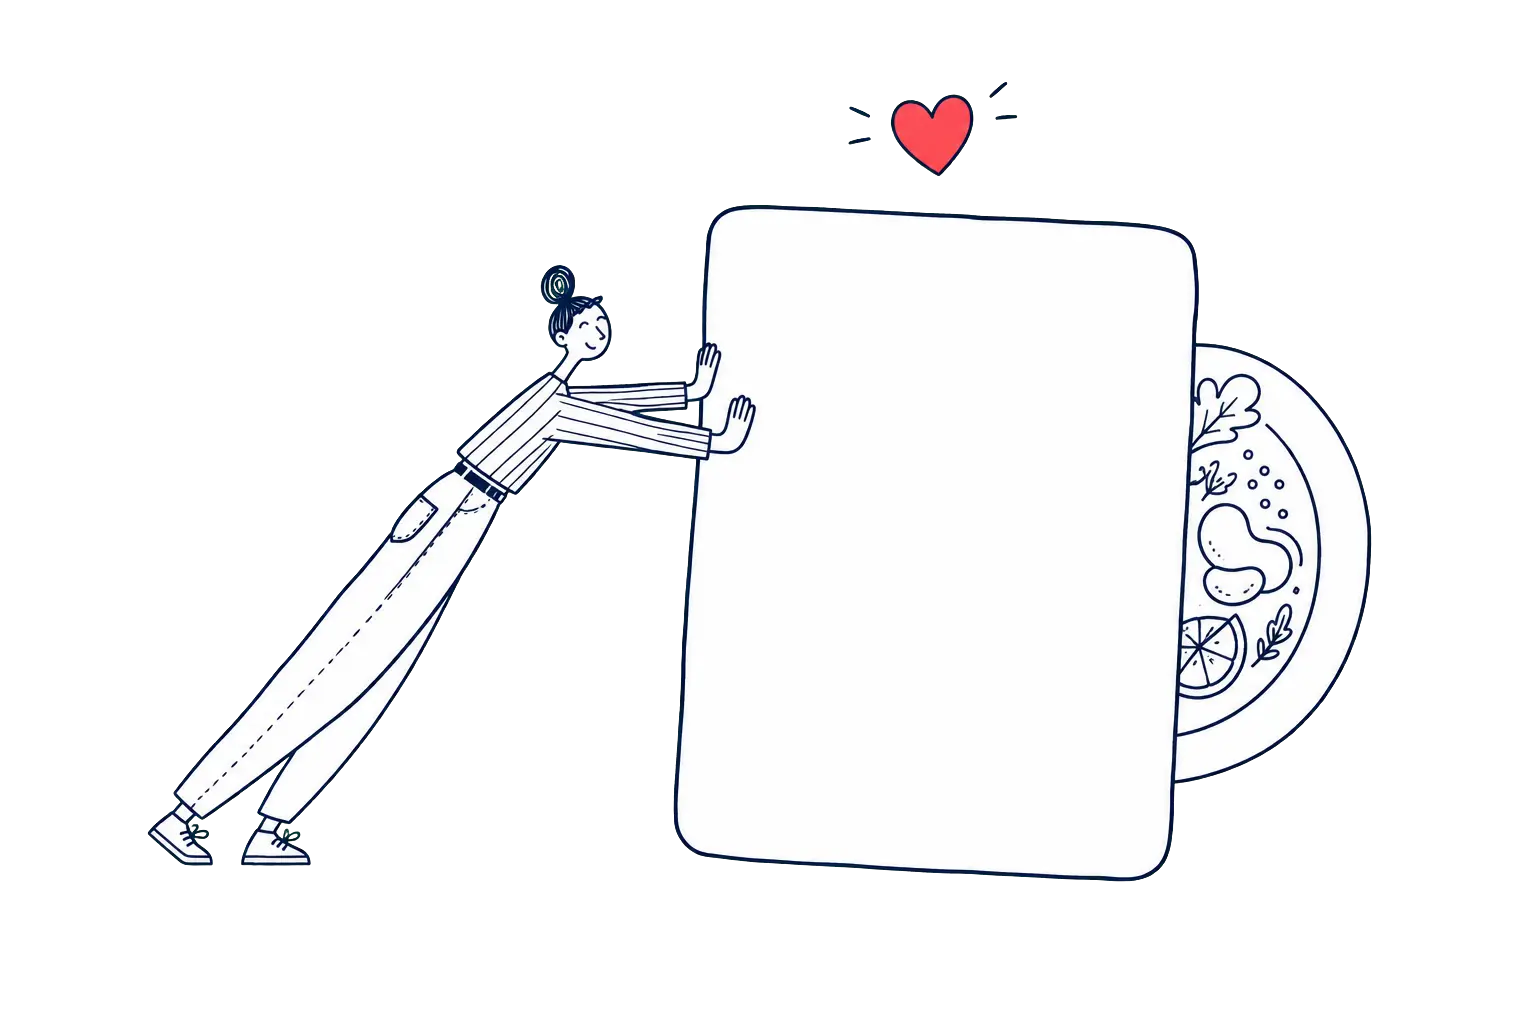
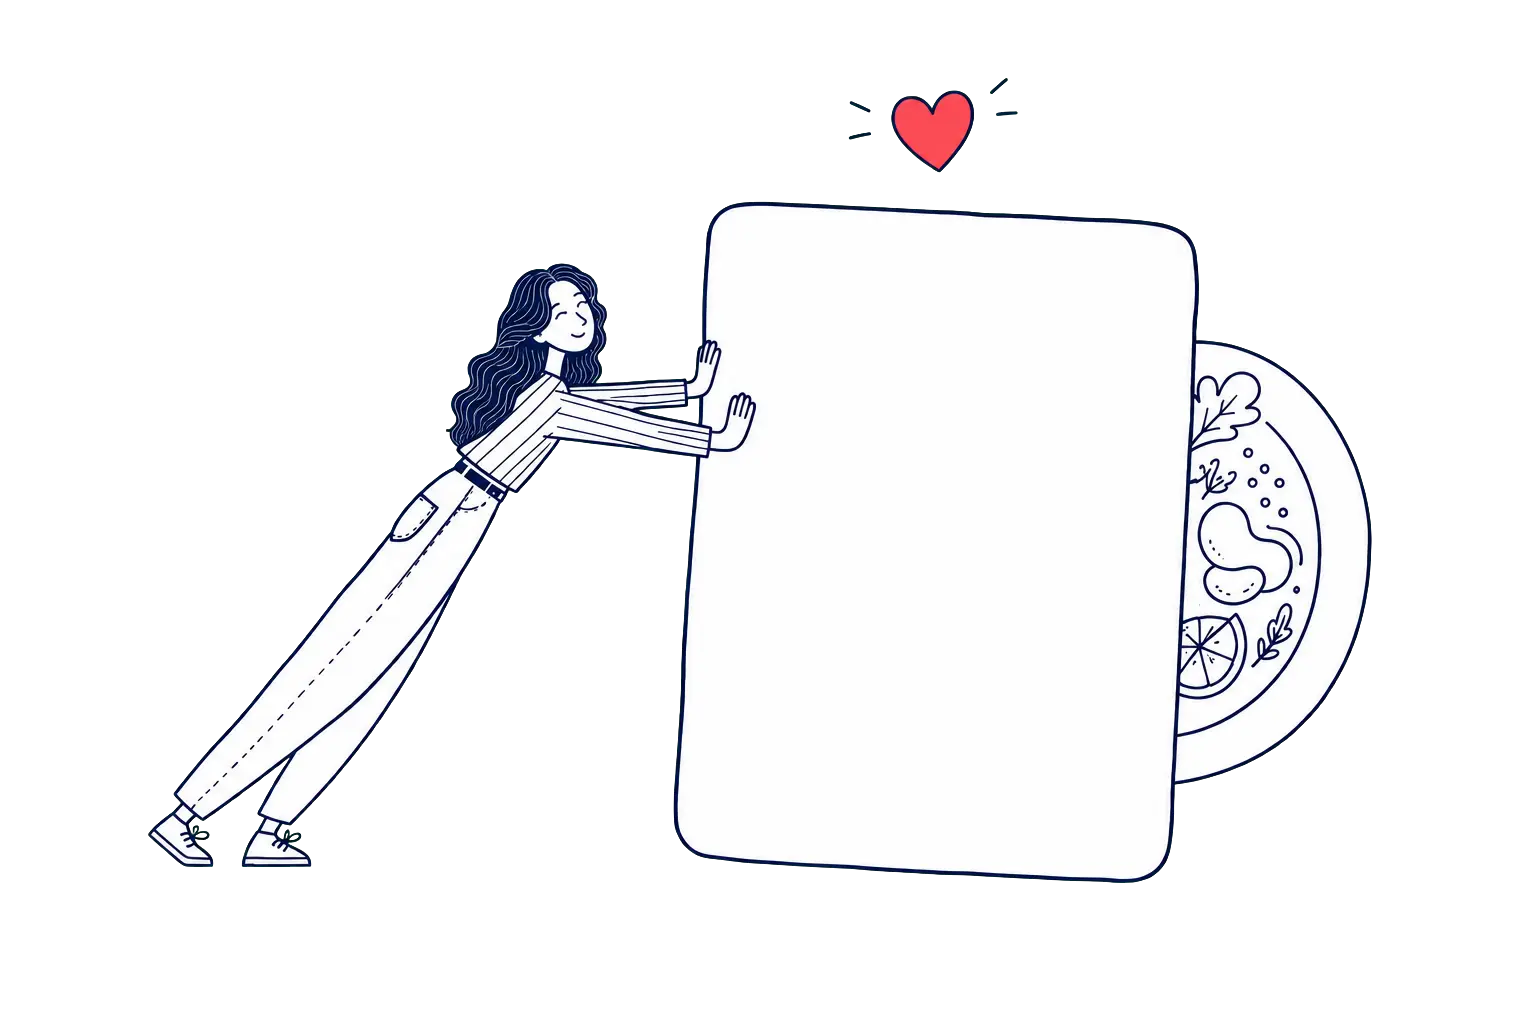
Make Aina the illustration heroine

diff --git a/src/styles.css b/src/styles.css
@@ -615,9 +615,14 @@ legend { margin-bottom: 12px; }
 .swipe-finished p { color: var(--soft); }
 .swipe-finished button { border: 0; background: var(--ink); color: white; padding: 14px 18px; margin-top: 20px; cursor: pointer; }
 
-.favorites-empty { min-height: calc(100dvh - 108px); display: flex; flex-direction: column; align-items: flex-start; justify-content: center; padding: 70px 0 100px; }
-.favorites-empty > p:last-of-type { max-width: 430px; margin: 35px 0 0; color: var(--soft); line-height: 1.6; }
-.favorites-empty button { display: flex; justify-content: space-between; gap: 60px; min-width: 280px; border: 0; background: var(--ink); color: white; padding: 16px 18px; margin-top: 28px; text-transform: uppercase; font-size: 10px; letter-spacing: .08em; cursor: pointer; }
+.favorites-empty { min-height: calc(100dvh - 108px); display: grid; grid-template-columns: minmax(300px, .8fr) minmax(420px, 1.2fr); gap: 6vw; align-items: center; padding: 70px 0 100px; }
+.favorites-copy { display: flex; flex-direction: column; align-items: flex-start; }
+.favorites-copy > p:last-of-type { max-width: 430px; margin: 35px 0 0; color: var(--soft); line-height: 1.6; }
+.favorites-copy button { display: flex; justify-content: space-between; gap: 60px; min-width: 280px; border: 0; background: var(--ink); color: white; padding: 16px 18px; margin-top: 28px; text-transform: uppercase; font-size: 10px; letter-spacing: .08em; cursor: pointer; }
+.favorites-illustration { width: 100%; justify-self: center; }
+.favorites-illustration img { max-height: 520px; object-fit: contain; }
+.favorites-list-illustration { width: min(100%, 300px); margin-top: 38px; }
+.favorites-list-illustration img { max-height: 245px; object-fit: contain; object-position: left center; }
 
 footer { display: flex; justify-content: space-between; border-top: 1px solid var(--ink); padding: 24px 0 50px; font-size: 11px; }
 footer span:first-child { font-family: "Prata", Georgia, serif; font-size: 18px; }
@@ -637,6 +642,9 @@ footer span:first-child { font-family: "Prata", Georgia, serif; font-size: 18px;
   .swipe-heading > p:last-of-type { grid-column: 1; margin: 0; }
   .swipe-illustration { grid-column: 2; grid-row: 2 / 4; width: 100%; margin: 0; padding: 0; }
   .swipe-stage, .swipe-controls { grid-column: 1; }
+  .favorites-empty { grid-template-columns: 1fr; gap: 38px; }
+  .favorites-illustration { width: min(100%, 620px); }
+  .favorites-illustration img { max-height: 390px; }
 }
 
 @media (max-width: 700px) {
@@ -725,7 +733,10 @@ footer span:first-child { font-family: "Prata", Georgia, serif; font-size: 18px;
   .swipe-controls button { min-height: 54px; padding: 12px 8px; font-size: 9px; }
   .swipe-finished { padding: 28px 22px; }
   .swipe-finished h2 { font-size: 42px; }
-  .favorites-empty { min-height: calc(100dvh - 126px); }
+  .favorites-empty { min-height: calc(100dvh - 126px); gap: 32px; padding: 44px 0 75px; }
+  .favorites-illustration img { max-height: 300px; }
+  .favorites-list-illustration { width: min(100%, 260px); margin-top: 26px; }
+  .favorites-list-illustration img { max-height: 210px; }
 }
 
 @media (prefers-reduced-motion: reduce) {

diff --git a/src/main.js b/src/main.js
@@ -765,6 +765,9 @@ function renderFavorites() {
         <span>Сохранено / ${favoriteRecipes.length.toString().padStart(2, "0")}</span>
         <h2 id="favorites-title">Избранное</h2>
         <p>${authUser ? "Рецепты сохранены в вашем аккаунте." : "Рецепты сохранены на этом устройстве. Войдите, чтобы синхронизировать их."}</p>
+        <figure class="section-illustration favorites-list-illustration" aria-hidden="true">
+          <img src="/illustrations/favorites-hero.webp" alt="">
+        </figure>
       </div>
       <div class="recipe-list">
         ${favoriteRecipes.map((recipe, index) => renderRecipeCard(recipe, index, "favorites")).join("")}
@@ -878,7 +881,17 @@ function renderSwipeView() {
 
 function renderFavoritesView() {
   if (favoriteRecipes.length) return renderFavorites();
-  return `<section class="favorites-empty"><p class="eyebrow">Личная коллекция</p><h1>Пока<br>пусто</h1><p>Смахните рецепт вправо в разделе «АМ ❤» или нажмите сердечко в базе.</p><button data-view="swipe">Открыть АМ ❤ <span>→</span></button></section>`;
+  return `<section class="favorites-empty">
+    <div class="favorites-copy">
+      <p class="eyebrow">Личная коллекция</p>
+      <h1>Пока<br>пусто</h1>
+      <p>Смахните рецепт вправо в разделе «АМ ❤» или нажмите сердечко в базе.</p>
+      <button data-view="swipe">Открыть АМ ❤ <span>→</span></button>
+    </div>
+    <figure class="section-illustration favorites-illustration" aria-hidden="true">
+      <img src="/illustrations/favorites-hero.webp" alt="">
+    </figure>
+  </section>`;
 }
 
 function resetSwipeDeck() {
